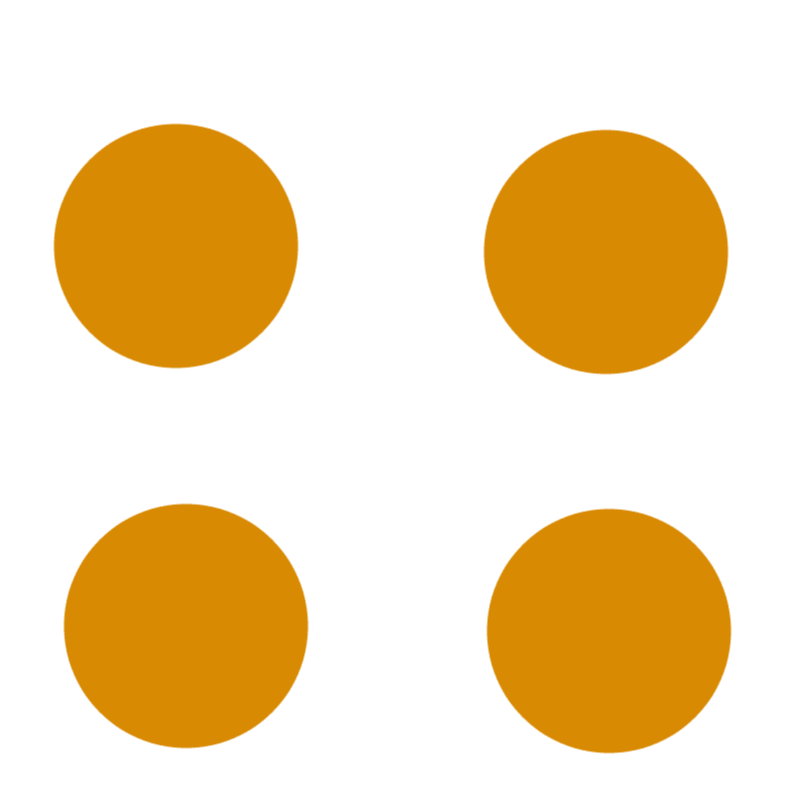
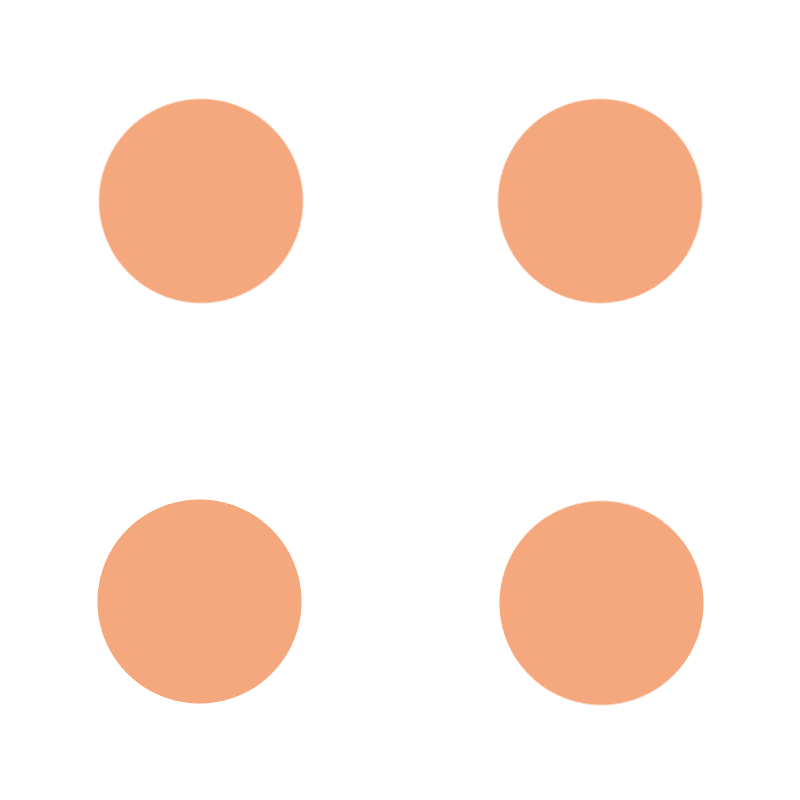
can now hold dice

diff --git a/src/Table.js b/src/Table.js
@@ -6,9 +6,9 @@ const Table = React.createClass({
       <table className="table">
         <thead>
           <tr>
-            <th><abbr title="Position">Round</abbr></th>
-            <th>Player 1</th>
-            <th><abbr title="Played">Player 2</abbr></th>
+            <th><abbr className='title' title="Position">Round</abbr></th>
+            <th className='played'>Player 1</th>
+            <th><abbr className='played' title="Played">Player 2</abbr></th>
 
           </tr>
         </thead>
@@ -16,95 +16,95 @@ const Table = React.createClass({
           <tr>
             <th><abbr title="Position">Total</abbr></th>
             <th>Player One Total</th>
-            <th><abbr title="Played">Player One Total</abbr></th>
+            <th><abbr className='played' title="Played">Player One Total</abbr></th>
 
           </tr>
         </tfoot>
         <tbody>
           <tr>
             <th>1</th>
-            <td>TO FILL IN WITH RESULT</td>
-            <td>TO FILL IN WITH RESULT</td>
+            <td></td>
+            <td></td>
           </tr>
           <tr>
             <th>2</th>
-            <td>TO FILL IN WITH RESULT</td>
-            <td>TO FILL IN WITH RESULT</td>
+            <td></td>
+            <td></td>
           </tr>
           <tr>
             <th>3</th>
-            <td>TO FILL IN WITH RESULT</td>
-            <td>TO FILL IN WITH RESULT</td>
+            <td></td>
+            <td></td>
 
           </tr>
           <tr>
             <th>4</th>
-            <td>TO FILL IN WITH RESULT</td>
-            <td>TO FILL IN WITH RESULT</td>
+            <td></td>
+            <td></td>
           </tr>
           <tr>
             <th>5</th>
-            <td>TO FILL IN WITH RESULT</td>
-            <td>TO FILL IN WITH RESULT</td>
+            <td></td>
+            <td></td>
 
           </tr>
           <tr>
             <th>6</th>
-            <td>TO FILL IN WITH RESULT</td>
-            <td>TO FILL IN WITH RESULT</td>
+            <td></td>
+            <td></td>
 
           </tr>
           <tr>
             <th>TOTAL</th>
-            <td>TO FILL IN WITH RESULT</td>
-            <td>TO FILL IN WITH RESULT</td>
+            <td></td>
+            <td></td>
           </tr>
           <tr>
             <th>3 of a kind</th>
-            <td>TO FILL IN WITH RESULT</td>
-            <td>TO FILL IN WITH RESULT</td>
+            <td></td>
+            <td></td>
 
             <td></td>
           </tr>
           <tr>
             <th>4 of a kind</th>
-            <td>TO FILL IN WITH RESULT</td>
-            <td>TO FILL IN WITH RESULT</td>
+            <td></td>
+            <td></td>
             <td></td>
           </tr>
           <tr>
             <th>4 run</th>
-            <td>TO FILL IN WITH RESULT</td>
-            <td>TO FILL IN WITH RESULT</td>
+            <td></td>
+            <td></td>
           </tr>
           <tr>
             <th>5 run</th>
-            <td>TO FILL IN WITH RESULT</td
-            >      <td>TO FILL IN WITH RESULT</td>
+            <td></td
+            >      <td></td>
             <td></td>
           </tr>
           <tr>
             <th>FULL HOUSE</th>
-            <td>TO FILL IN WITH RESULT</td>
-            <td>TO FILL IN WITH RESULT</td>
+            <td></td>
+            <td></td>
             <td></td>
           </tr>
           <tr>
             <th>Yatzee</th>
-            <td>TO FILL IN WITH RESULT</td>
-            <td>TO FILL IN WITH RESULT</td>
+            <td></td>
+            <td></td>
             <td></td>
           </tr>
           <tr>
             <th>Chance</th>
-            <td>TO FILL IN WITH RESULT</td>
-            <td>TO FILL IN WITH RESULT</td>
+            <td></td>
+            <td></td>
             <td></td>
           </tr>
           <tr>
             <th>Total</th>
-            <td>TO FILL IN WITH RESULT</td>
-            <td>TO FILL IN WITH RESULT</td>
+            <td></td>
+            <td></td>
             <td></td>
           </tr>
         </tbody>
@@ -113,6 +113,8 @@ const Table = React.createClass({
     )
   }
 })
+
+
 
 
 export default Table;

diff --git a/src/Dice.js b/src/Dice.js
@@ -5,6 +5,13 @@ const dice6 = require('./images/dice-6.png');
 const dice2 = require('./images/two.png');
 const dice1 = require('./images/one.png');
 const dice3 = require('./images/three.png');
+
+const diceHeld4 = require('./images/heldDice-4.png');
+const diceHeld5 = require('./images/heldDice-5.png');
+const diceHeld6 = require('./images/heldDice-6.png');
+const diceHeld2 = require('./images/heldTwo.png');
+const diceHeld1 = require('./images/heldDice-1.png');
+const diceHeld3 = require('./images/heldThree.png');
 import {HoldDice} from './reduxStuff/actions';
 import {connect} from 'react-redux';
 
@@ -16,9 +23,31 @@ const imageToRender = {
     5: dice5,
     6: dice6,
 };
+const imageToRenderIfHeld = {
+    1: diceHeld1,
+    2: diceHeld2,
+    3: diceHeld3,
+    4: diceHeld4,
+    5: diceHeld5,
+    6: diceHeld6,
+};
 
 const Dice = React.createClass({
+
     render () {
+        if(this.props.held) {
+            return (
+                <div className='dice heldTrue' onClick={this.handleClick}>
+                <div className="tile is-parent">
+                    <article className="tile is-child notification is-info">
+                        <figure className="image is-4by3">
+                            <img src={imageToRenderIfHeld[this.props.number]} />
+                        </figure>
+                    </article>
+                </div>
+            </div>
+            )
+        }
         return (
             <div className='dice' onClick={this.handleClick}>
                 <div className="tile is-parent">
@@ -34,8 +63,8 @@ const Dice = React.createClass({
 
     },
     handleClick() {
-        console.log(this.key)
-        this.props.holdDice(this.key);
+        console.log(this.props.whichDice)
+        this.props.holdDice(this.props.whichDice);
     }
 });
 

diff --git a/src/reduxStuff/reducer.js b/src/reduxStuff/reducer.js
@@ -24,7 +24,42 @@ const initialState = {
             held: false
         }
 
-    }
+    },
+    player1: {
+        1: null,
+        2: null,
+        3: null,
+        4: null,
+        5: null,
+        6: null,
+        total: null,
+        '3 of a kind': null,
+        '4 of a kind': null,
+        'full house': null,
+        'low straight': null,
+        'high straight': null,
+        'Yahtzee': null,
+        'Chance': null,
+    },
+    player2: {
+        1: null,
+        2: null,
+        3: null,
+        4: null,
+        5: null,
+        6: null,
+        total: null,
+        '3 of a kind': null,
+        '4 of a kind': null,
+        'full house': null,
+        'low straight': null,
+        'high straight': null,
+        'Yahtzee': null,
+        'Chance': null,
+    },
+    currentPlayer: 'player1',
+    currentDiceScore: []
+
 };
 
 function reducer (prevState = initialState, action) {
@@ -33,7 +68,7 @@ function reducer (prevState = initialState, action) {
             const newState = Object.assign({}, prevState);
             const newDice = Object.assign({}, prevState.dice);
             for (var key in newDice) {
-                if (!key.held) {
+                if (!newDice[key].held) {
                     newDice[key].numberOnDice = diceRoll(1, 7);
                 }
             }
@@ -42,7 +77,6 @@ function reducer (prevState = initialState, action) {
         case types.HOLD_DICE: {
             const newState = Object.assign({}, prevState);
             const newDice = Object.assign({}, prevState.dice);
-            console.log(newDice[action.whichDice])
             newDice[action.whichDice].held = newDice[action.whichDice].held ? false : true;
             return newState;
         }

diff --git a/src/css/index.css b/src/css/index.css
@@ -2,6 +2,8 @@ body {
   margin: 0;
   padding: 0;
   font-family: sans-serif;
+  width: 100%;
+  height: 100%
 }
 
 .notification.is-info {
@@ -13,7 +15,6 @@ body {
 }
 
 .dice img {
-  background-color: purple;
   padding: 2vh;
   border-radius: 20px;   
 }
@@ -30,5 +31,22 @@ body {
 .App {
     height: 100vh;
     background-size: cover;
+    background-attachment: fixed;
     background-image: url('../images/background.jpg');
+    
+}
+
+.table {
+  max-width: 50%;
+  max-height: 50%;
+  color: white;
+}
+
+.title {
+  color: white;
+
+}
+
+.played {
+  color: white;
 }

diff --git a/src/App.js b/src/App.js
@@ -12,8 +12,9 @@ class App extends Component {
   render() {
     const mapped = map(this.props.dice.dice, function (dice, ind) {
       return <Dice
-        key={ind}
+        whichDice={ind}
         number={dice.numberOnDice}
+        held={dice.held}
       />
     });
     return (
@@ -29,7 +30,7 @@ class App extends Component {
 
 function mapStateToProps(state) {
   return {
-    dice: state
+    dice: state,
   }
 }
 

diff --git a/src/RollButton.js b/src/RollButton.js
@@ -6,11 +6,12 @@ const RollButton = React.createClass({
     render() {
         return (
             <div>
-            <a className='button is-danger' onClick={this.handleClick}> ROLLLLL </a>
+            <a className='button is-danger rollButton'  onClick={this.handleClick}> ROLL </a>
             </div>
         )
     },
     handleClick: function () {
+        
         this.props.rollDice();
     }
 })

diff --git a/src/css/App.css b/src/css/App.css
@@ -22,3 +22,7 @@
   from { transform: rotate(0deg); }
   to { transform: rotate(360deg); }
 }
+
+.rollButton {
+  border-radius: 100%;
+}

diff --git a/src/css/dice.css b/src/css/dice.css
@@ -2,4 +2,5 @@
     height: 20%;
     width: 20%;
     display: inline-block;
+    text-shadow: 
 }
